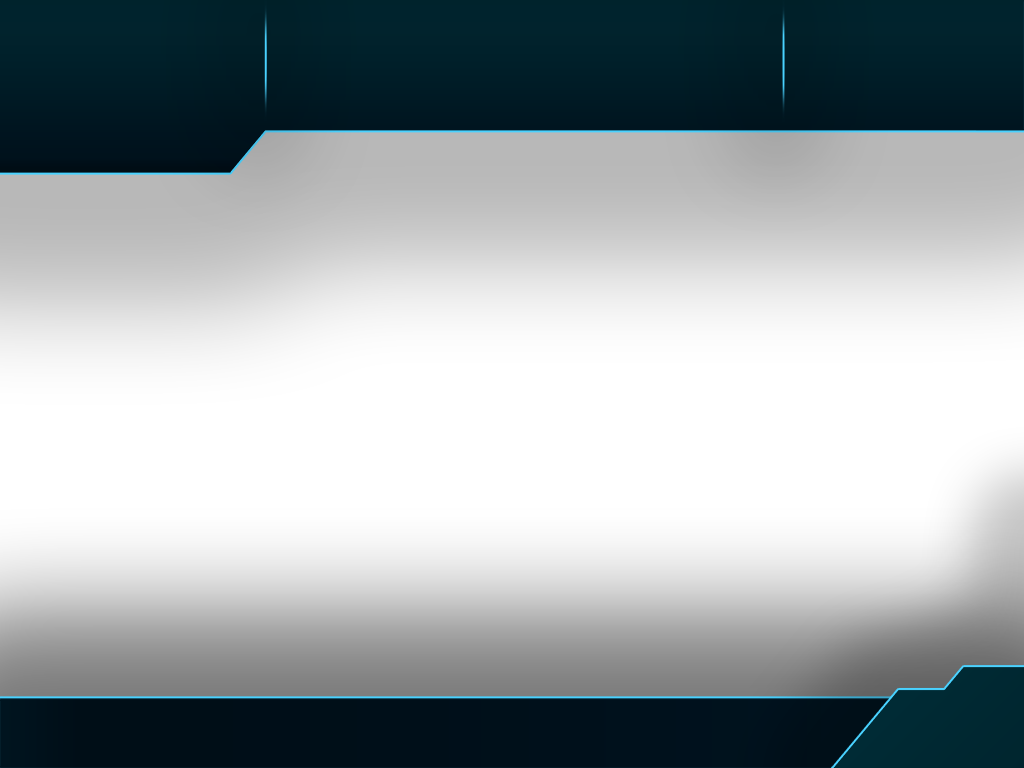
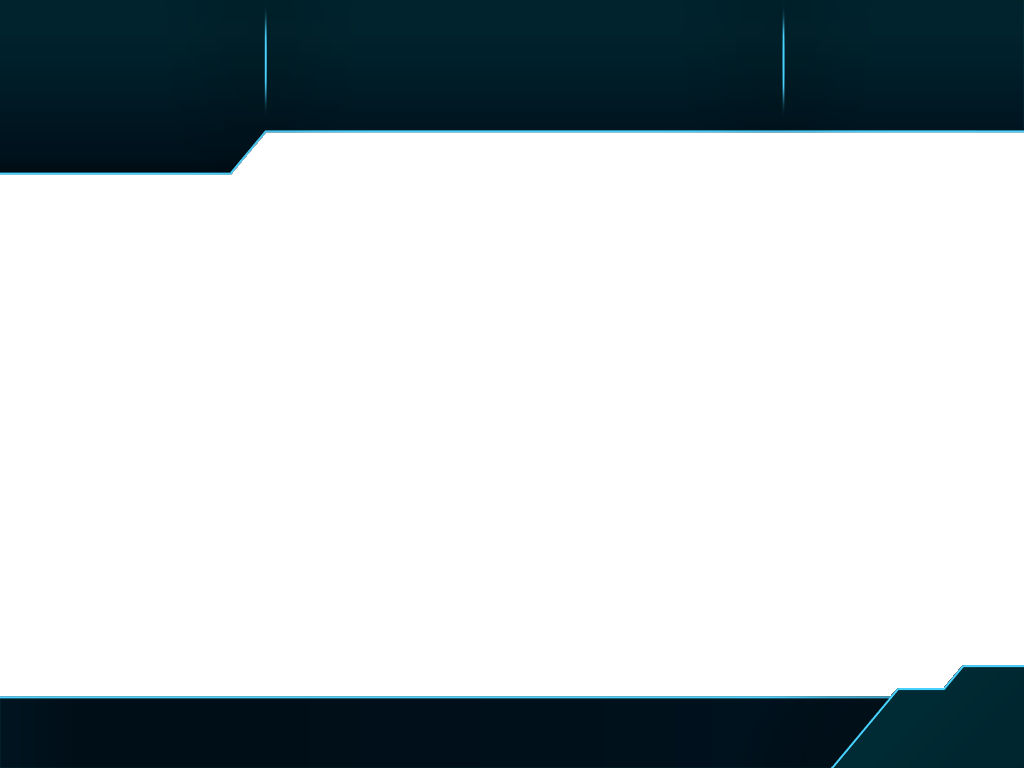
decreased cpu utilization by not drawing pages when out of screen

diff --git a/autovip_ls/Components/BasePage.qml b/autovip_ls/Components/BasePage.qml
@@ -6,92 +6,86 @@ Rectangle {
     width: 1024
     height: 768
     x:-1024
-    property bool showing: false
-    property bool hiding: false
     property alias caption: caption.text
     property string pageName: "default"
     clip:true
     color: "transparent"
-
-    Rectangle{
-        id:rcaption
-        width:238
-        height:60
-        color:"transparent"
-        anchors.horizontalCenter: parent.horizontalCenter
-        anchors.top: parent.top
-        anchors.topMargin: 67
-        Text{
-            id:caption
-            text:""
-            z:32
-            font.pixelSize: 36
-            font.family: GSystem.centurygothic.name
-            color:"white"
-            horizontalAlignment: Text.AlignHCenter
+    visible: false
+    Item{
+        id: topMenu
+        anchors.fill: root
+        x:root.x
+        y:root.y
+        parent: bgOverlay
+        Rectangle{
+            id:rcaption
+            width:238
+            height:60
+            color:"transparent"
             anchors.horizontalCenter: parent.horizontalCenter
             anchors.top: parent.top
+            anchors.topMargin: 67
+            visible: root.visible && ( root.pageName !== "Home"  )
+            Text{
+                id:caption
+                text:""
+                z:32
+                font.pixelSize: 36
+                font.family: GSystem.centurygothic.name
+                color:"white"
+                horizontalAlignment: Text.AlignHCenter
+                anchors.horizontalCenter: parent.horizontalCenter
+                anchors.top: parent.top
 
+            }
+            Image{
+                visible: (caption.text!="")?true:false
+                anchors.bottom: parent.bottom
+                source: "qrc:/design/general/captionline.svg"
+                z:31
+            }
         }
-        Image{
-            visible: (caption.text!="")?true:false
-            anchors.bottom: parent.bottom
-            source: "qrc:/design/general/captionline.svg"
-            z:31
-        }
-    }
 
-   Image{
-       id: return_btn
-       visible: (root.pageName === "Home")?false:true;
-       source: "qrc:/design/general/Return.svg"
-       anchors.right: parent.right
-       anchors.rightMargin: width + 1
-       y:30
-       z:32
-       MouseArea{
-           x:-16
-           y:-16
-           width: parent.width + 32
-           height:parent.height + 32
-           cursorShape: Qt.PointingHandCursor
-           onPressed: {
-                   GSystem.goBack();
+       Image{
+           id: return_btn
+           visible: root.visible && ( root.pageName !== "Home"  )
+           source: "qrc:/design/general/Return.svg"
+           anchors.right: parent.right
+           anchors.rightMargin: width + 1
+           y:30
+           z:32
+           MouseArea{
+               x:-16
+               y:-16
+               width: parent.width + 32
+               height:parent.height + 32
+               cursorShape: Qt.PointingHandCursor
+               onPressed: {
+                       GSystem.goBack();
+               }
+           }
+       }
+
+       Image{
+           id: home_btn
+           visible: root.visible && ( root.pageName !== "Home"  )
+           source: "qrc:/design/general/homeBtn.svg"
+           anchors.right: return_btn.left
+           anchors.rightMargin: width + 5
+           y:35
+           z:332
+           MouseArea{
+               x:-16
+               y:-16
+               width: parent.width + 32
+               height:parent.height + 32
+               cursorShape: Qt.PointingHandCursor
+               onPressed: {
+                       console.log("return button is pressed");
+                       GSystem.state = "Home";
+                       GSystem.changePage("Home");
+               }
            }
        }
    }
-
-   Image{
-       id: home_btn
-       visible: ( root.pageName === "Home"  ) ?false:true;
-       source: "qrc:/design/general/homeBtn.svg"
-       anchors.right: return_btn.left
-       anchors.rightMargin: width + 5
-       y:35
-       z:332
-       MouseArea{
-           x:-16
-           y:-16
-           width: parent.width + 32
-           height:parent.height + 32
-           cursorShape: Qt.PointingHandCursor
-           onPressed: {
-                   console.log("return button is pressed");
-                   GSystem.state = "Home";
-                   GSystem.changePage("Home");
-           }
-       }
-   }
-   NumberAnimation on x {
-        from: root.width
-        to:  0
-        duration: 300
-        running: root.showing
-    }
-   NumberAnimation on x {
-        from: 0
-        to: -root.width
-        duration: 300
-        running: root.hiding
-    }
 }

diff --git a/autovip_ls/main.qml b/autovip_ls/main.qml
@@ -80,19 +80,22 @@ Window {
 //        Component.onCompleted: {
 //                player.play();
 //        }
-        Image {
-                x:0
-                y:0
-                source: "qrc:/design/general/backgroundoverlay.png"
-                width:parent.width
-                height:parent.height
-        }
 
         Body{
             id: bodyPart
             x:0
             y:0
         }
+        Image {
+            id: bgOverlay
+            x:0
+            y:0
+            source: "qrc:/design/general/backgroundoverlay.png"
+            width:parent.width
+            height:parent.height
+        }
+
+
         BottomMenu
         {
             id: iBottomMenu

diff --git a/autovip_ls/SGlobal.qml b/autovip_ls/SGlobal.qml
@@ -2277,6 +2277,15 @@ ListModel {
     SequentialAnimation{
         id:pageSwipe
         running: false
+        onRunningChanged: {
+            if (running){
+                currentPageItm.visible=true;
+
+            }
+            else if (!running){
+                prevPageItm.visible=false;
+            }
+        }
         NumberAnimation {
             target: logoItm
             property: "y"
@@ -2293,7 +2302,6 @@ ListModel {
                 duration: 200
                 easing.type: Easing.InOutQuad
             }
-
             NumberAnimation {
                 target: prevPageItm
                 property: "x"

diff --git a/autovip_ls/Pages/Home.qml b/autovip_ls/Pages/Home.qml
@@ -5,15 +5,12 @@ import QtQuick.Particles 2.0
 BasePage {
     id: root
     pageName: "Home"
+    visible: true
     TopMenu {
-            id: iTopMenu
-            x:0
-            y:0
-            clip: true
-            Component.onCompleted:
-            {
-                iTopMenu.x = 0;
-            }
+        x:root.x
+        y:root.y
+        parent: bgOverlay
+        clip: true
         }
     Image{
         id:car

diff --git a/autovip_ls/Body.qml b/autovip_ls/Body.qml
@@ -16,10 +16,10 @@ Item {
     width: 1024
     height: 668
 
-   Logo{
+    Logo{
         id:logo
-        z:333
-   }
+        parent: bgOverlay
+    }
 
     Pages.Home{
         id:home

diff --git a/autovip_ls/main.cpp b/autovip_ls/main.cpp
@@ -31,11 +31,11 @@ bool changeCD()
 
 int main(int argc, char *argv[])
 {
-    ThreadUtils::assign_to_n_cores(3,(pthread_t)QThread::currentThreadId());
+    ThreadUtils::pin_to_core(0,(pthread_t)QThread::currentThreadId());
     //qputenv("QT_IM_MODULE", QByteArray("qtvirtualkeyboard"));
     QCoreApplication::setAttribute(Qt::AA_EnableHighDpiScaling);
     QGuiApplication app(argc, argv);
-    ThreadUtils::assign_to_n_cores(3,(pthread_t)app.thread());
+//    ThreadUtils::pin_to_core(0,(pthread_t)app.thread());
 
     qputenv("QT_QUICK_CONTROLS_STYLE", "material");
     qputenv("QSG_RENDER_LOOP", "basic"); // PC ANIMATION
